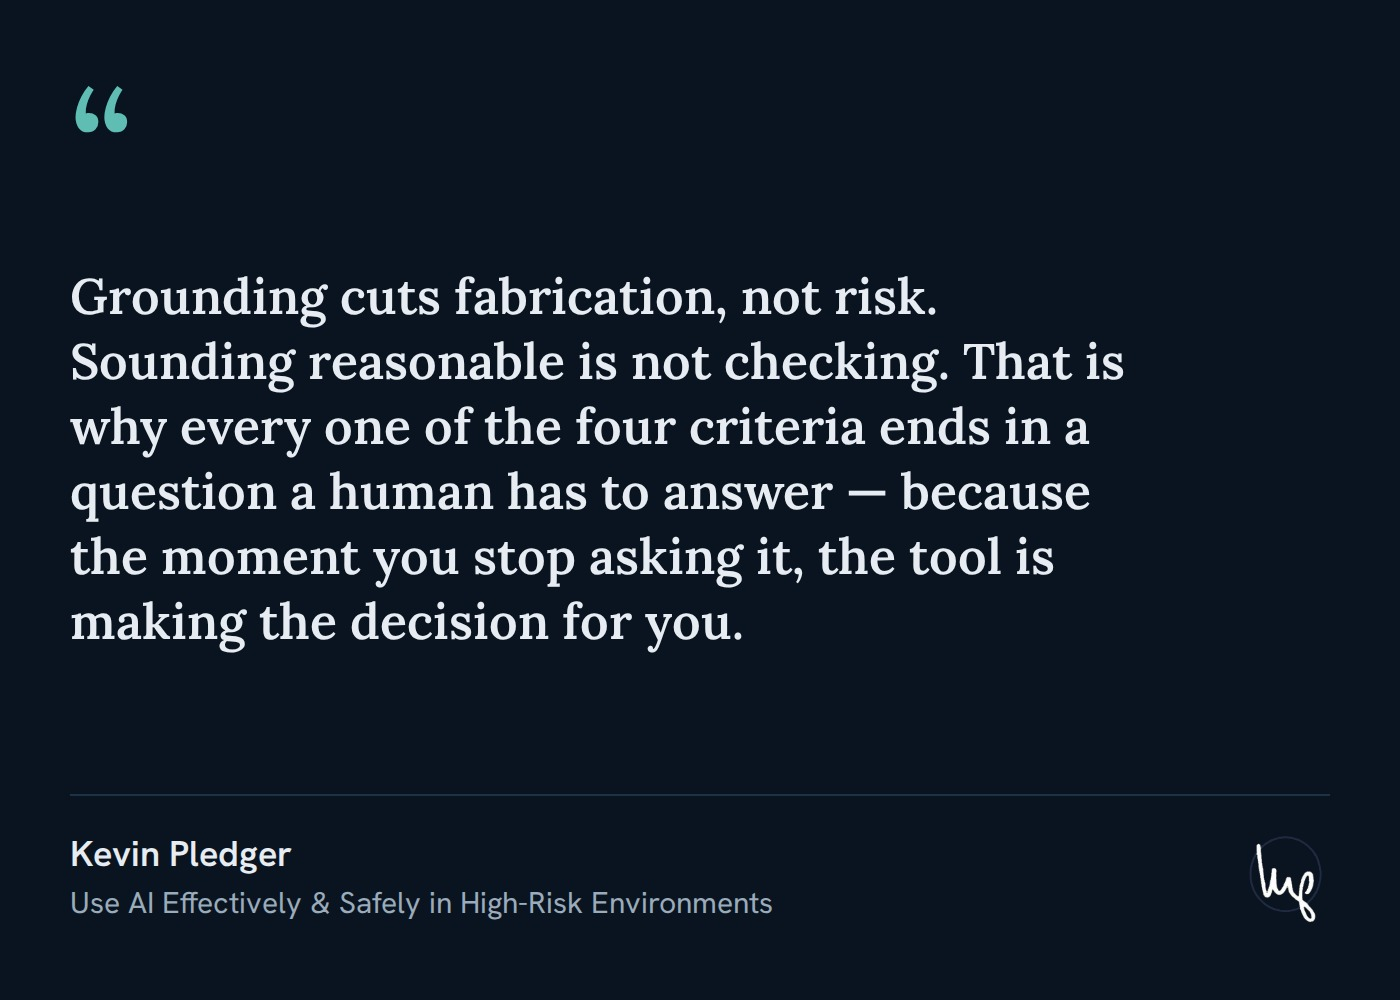
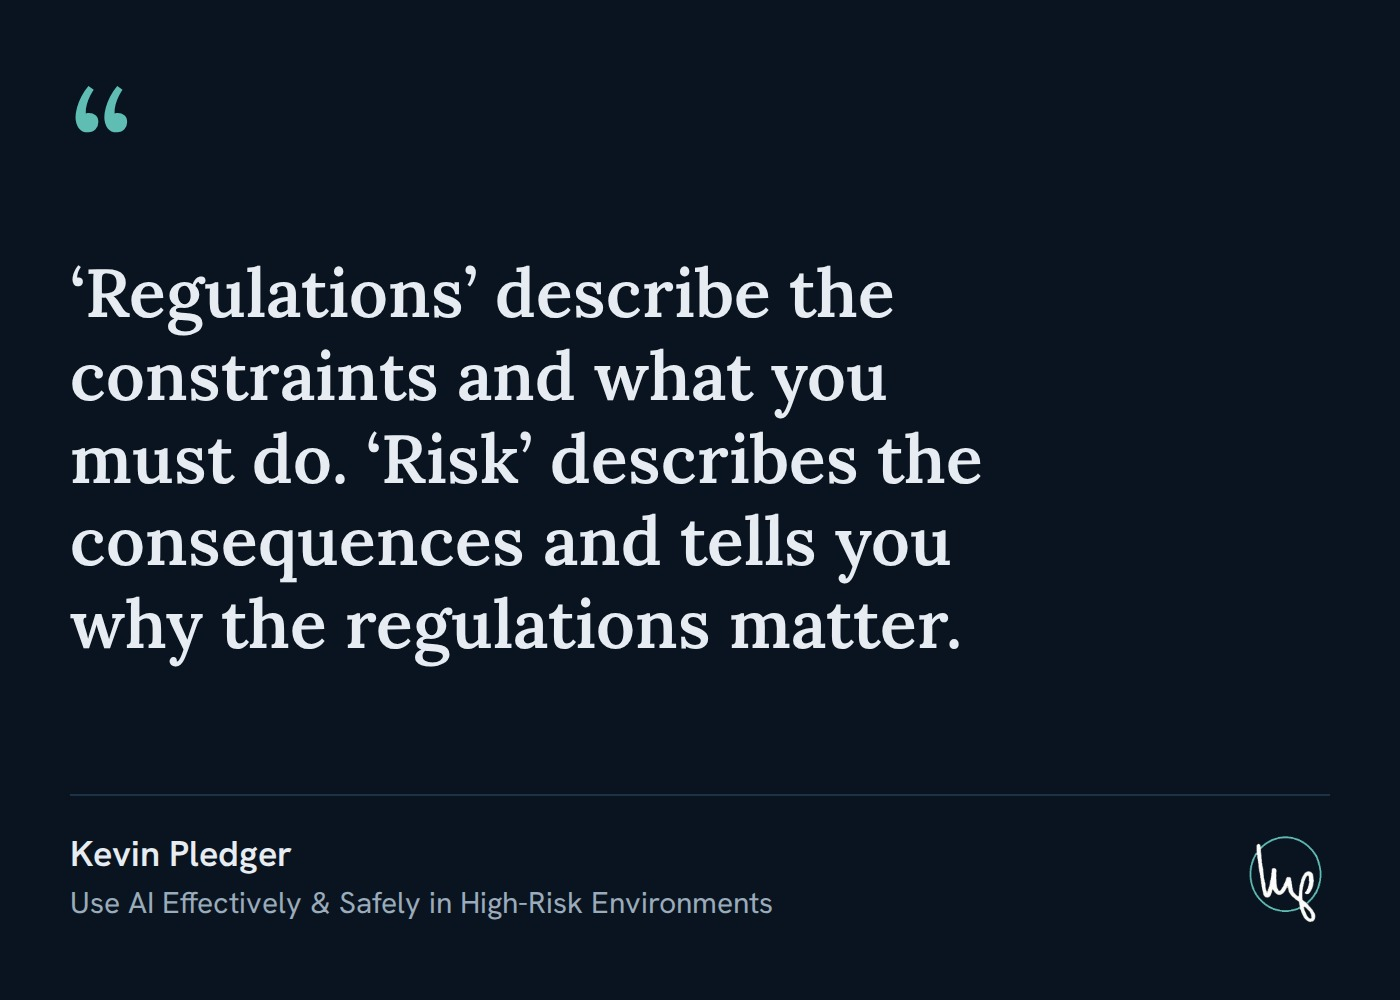
Use Kevin's real quote, and put the badge ring on the brand accent
The quote is now his, verbatim, from his first presentation — 20 words, so
the tier moves to t-xl. The internal single quotation marks around
'Regulations' and 'Risk' are kept: they nest one level inside the card's own
quotation, which is what the large opening mark is.

Ring moves from navy to --accent #5fbdb4, and the format doc now says why
rather than inheriting the infographic default.

Navy is the §5.8 default for a dark canvas and it does not survive this one.
Measured at 1.30:1 against #0a1420 and rendering as a ~1.6px stroke at badge
size, it is not a quiet ring, it is an absent one. The default is still
correct on a light canvas.

Every other shipped ring is worse: deep blue is invisible too at 1.24:1, and
the four that are visible run 1.3x-2.6x over the 0.091 chroma ceiling, three
of them borrowing a status hue — red sits exactly on danger at h27. The
accent is the only ring both legible here and inside the system, at 8.31:1
and 0.091 chroma. It is also the most legible of the set.

New asset, logos/kwp_logo_short_inverted_teal.png, is a ring-only recolor of
the navy file. Verified pixel by pixel: same 248x299, alpha channel
byte-identical, zero white glyph pixels changed, 3075 ring pixels remapped.
The no-redraw and no-tint-the-glyph rules are intact in the literal sense.

PROVENANCE.md gains a Derived variants section recording that, and the open
question it raises: using the accent for the ring implicitly proposes
[…]

Changed region(s): [[0.0307, 0.248, 0.7986, 0.682]]

diff --git a/examples/self-quote/index.html b/examples/self-quote/index.html
@@ -82,7 +82,9 @@
 
   /* The badge is sized by HEIGHT ONLY and its width is left to the file.
      logos/PROVENANCE.md: the marks are being reworked, so nothing may depend
-     on their exact geometry. Dark canvas -> the inverted mark. §5.8. */
+     on their exact geometry. Dark canvas -> the inverted mark.
+     Ring is the brand accent, the only visible option that stays under the
+     0.091 chroma ceiling and borrows no status hue. See the format doc §4.2. */
   .badge{height:var(--q-badge); width:auto; display:block; flex:none;}
 </style>
 
@@ -91,11 +93,10 @@
   <div class="mark" aria-hidden="true">&ldquo;</div>
 
   <!-- REPLACE ME. Keep the tier class in step with the word count.
-       This placeholder is 43 words -> t-m. -->
-  <blockquote class="quote t-m">
-    Grounding cuts fabrication, not risk. Sounding reasonable is not checking. That is why
-    every one of the four criteria ends in a question a human has to answer — because the
-    moment you stop asking it, the tool is making the decision for you.
+       This quote is 20 words -> t-xl. -->
+  <blockquote class="quote t-xl">
+    ‘Regulations’ describe the constraints and what you must do.
+    ‘Risk’ describes the consequences and tells you why the regulations matter.
   </blockquote>
 
   <footer class="attribution">
@@ -104,7 +105,7 @@
       <!-- REPLACE ME if the talk is not this one. -->
       <div class="context">Use AI Effectively &amp; Safely in High-Risk Environments</div>
     </div>
-    <img class="badge" src="../../logos/kwp_logo_short_inverted_navy.png"
+    <img class="badge" src="../../logos/kwp_logo_short_inverted_teal.png"
          alt="kwp signature monogram">
   </footer>
 

diff --git a/docs/quote-post-design-system.md b/docs/quote-post-design-system.md
@@ -131,9 +131,12 @@ to make edges 3:1, and this is an edge.
 **No categorical slots and no status colors on this canvas.** There is nothing here to
 categorize and no outcome to report. A quote is not a category.
 
-**`--accent` appears exactly once**, on the opening mark. That is the only color on an otherwise
-monochrome card, and it is the whole reason the card reads as brand rather than as a default
-dark theme. Do not tint the quote text, and do not add a second accent element.
+**`--accent` is the only chromatic color on the card, and it appears in exactly two places:**
+the opening mark and the badge ring (§4). Everything else is the neutral family. That pairing is
+what makes the card read as brand rather than as a default dark theme — one accent, stated twice,
+top-left and bottom-right, which also weights the diagonal the eye already travels.
+
+Do not tint the quote text, and do not introduce a third accent element.
 
 ### 3.1 The 2px rule
 
@@ -149,7 +152,7 @@ Kevin's short signature mark, small, bottom right.
 
 | | |
 | :-- | :-- |
-| File (dark canvas) | `logos/kwp_logo_short_inverted_navy.png` |
+| File (dark canvas) | `logos/kwp_logo_short_inverted_teal.png` |
 | Size | **104px tall, width left to the file** |
 | Position | Flush to the right and bottom margins, vertically centred in the attribution band |
 
@@ -168,29 +171,43 @@ worse than none. And the glyph itself is not recolorable — **the signature is 
 white with a black border in the inverted register; only the ring color varies.**
 `logos/PROVENANCE.md` is the authority.
 
-### 4.2 Why the navy ring, and the tension it carries
+### 4.2 Why the ring is the brand accent
 
-Navy is the §5.8 default for a dark canvas and the only ring under the system's 0.091 chroma
-ceiling, at 0.050. Every other ring runs 1.3× to 3.3× over it.
+The ring is **`--accent` `#5fbdb4`** — the same teal as the opening mark.
 
-Measured, the ring `#202a44` sits at **1.30:1 against the canvas** — the same register as
-`--border` at 1.41:1. So it reads as a quiet enclosure, not as a color. The white initials
-inside carry the mark at 18.52:1 and are what anyone actually sees.
+The infographic format's §5.8 defaults a dark canvas to the navy ring, and that default does not
+survive contact with this canvas. Measured, navy `#202a44` sits at **1.30:1** against `#0a1420` —
+the same register as `--border` at 1.41:1 — and the ring renders as a **~1.6px stroke** at badge
+size. A 1.6px stroke at 1.30:1 is not a quiet ring; it is an absent one. On a light canvas navy
+works, which is why the default exists.
 
-**That is the trade and it should be made knowingly.** A ring that reads as a *color* on this
-canvas costs either the chroma ceiling or the ring's own meaning:
+Every other shipped ring is worse, and the table is the argument:
 
-| Ring | Hex | vs canvas | Chroma vs 0.091 ceiling |
-| :-- | :-- | :-- | :-- |
-| navy | `#202a44` | 1.30:1 | 0.050 — **under** |
-| green (dark) | `#046a38` | 2.76:1 | 0.116 — 1.3× over |
-| red | `#ed1d24` | 4.24:1 | 0.234 — 2.6× over |
-| orange | `#ff8200` | 7.45:1 | 0.185 — 2.0× over |
-| green (bright) | `#39be15` | 7.54:1 | 0.223 — 2.4× over |
+| Ring | Hex | vs canvas | Chroma vs 0.091 ceiling | Hue collision |
+| :-- | :-- | :-- | :-- | :-- |
+| navy | `#202a44` | 1.30:1 | 0.050 — under | — |
+| blue (deep) | `#06038d` | 1.24:1 | 0.198 — 2.2× over | — |
+| green (dark) | `#046a38` | 2.76:1 | 0.116 — 1.3× over | success, h154 |
+| red | `#ed1d24` | 4.24:1 | 0.234 — 2.6× over | **danger, h27 exactly** |
+| orange | `#ff8200` | 7.45:1 | 0.185 — 2.0× over | warm caution register |
+| green (bright) | `#39be15` | 7.54:1 | 0.223 — 2.4× over | success, h141 |
+| **accent teal** | **`#5fbdb4`** | **8.31:1** | **0.091 — at the ceiling** | — |
 
-Independently of chroma, **which ring color means what is undecided**, so a colored ring would
-be asserting a channel identity the system has not assigned yet. Changing this is a conversation
-about SPEC §10, not a per-card choice.
+Every visible ring in the shipped set breaks the chroma ceiling by 1.3× to 2.6×, and three of
+them borrow a status hue — red sits *on* danger. **The accent is the only ring that is both
+legible on this canvas and inside the system.** It is also the most legible of all of them.
+
+And it does not smuggle in an unassigned meaning. `logos/PROVENANCE.md` says the ring is intended
+to carry channel or section identity and that **which color means what is undecided** — so a
+green or orange ring would assert a channel this card does not belong to. Teal is the *parent*
+identity: the portal accent both channels sit inside. On Kevin's own quote card that is the
+correct thing for the ring to say.
+
+**This does read as proposing teal = parent.** That is a SPEC §10 conversation and it is Kevin's
+to ratify or reject; it is recorded here rather than left implicit in a file choice.
+
+The asset is a **ring-only recolor** of `kwp_logo_short_inverted_navy.png` — glyph pixels and the
+alpha channel are byte-identical, verified pixel by pixel. See `logos/PROVENANCE.md`.
 
 ### 4.3 The badge is not the attribution
 
@@ -216,8 +233,13 @@ mark beside `Kevin Pledger` says two different things.
 better sentence in your own mouth is not. If the line needs a rewrite to work on a card, it is a
 written line and the card should not claim it was spoken.
 
-**No quotation marks in the text.** The opening mark stands in for them. Adding both sets them
+**No *enclosing* quotation marks.** The opening mark stands in for them; adding both sets them
 twice.
+
+**Quotation marks *inside* the quote stay, and stay single.** A speaker naming a term — ‘Risk’,
+‘Regulations’ — is doing real work and the marks carry it. They sit one level in from the card's
+own quotation, which is what the large opening mark is, so single is correct; double would put
+two visible sets of double marks on one canvas and read as a mistake.
 
 **The card must work with the caption removed.** It gets screenshotted and reposted.
 
@@ -236,7 +258,8 @@ Measured in a render, not estimated:
 6. Inverted mark on the dark canvas. Never `kwp_logo_short_blue.png` (no alpha — it carries a
    baked white rectangle).
 7. `kwp` is lowercase everywhere it appears, including alt text.
-8. No italics. No quotation marks around the quote. No second accent element.
+8. No italics. No enclosing quotation marks — marks around quoted *terms* are fine, and single.
+   No third accent element beyond the opening mark and the ring.
 9. Grayscale test: nothing is lost, because nothing on this canvas is carried by color.
 10. Squint at 400px wide: the quote's first line and the name both survive.
 

diff --git a/examples/self-quote/README.md b/examples/self-quote/README.md
@@ -8,8 +8,8 @@ two `REPLACE ME` blocks, set the tier class, re-render.
 | :-- | :-- |
 | Canvas | **1400×1000**, 7:5 (§0.1) |
 | Register | **Dark** (§3) |
-| Tier | `t-m` — 43 words (§2.2) |
-| Badge | `kwp_logo_short_inverted_navy.png`, 104px tall, bottom right (§4) |
+| Tier | `t-xl` — 20 words (§2.2) |
+| Badge | `kwp_logo_short_inverted_teal.png`, 104px tall, bottom right (§4) |
 | Exports | `self-quote.jpg` 1400×1000 q92 |
 
 ## Using it
@@ -52,16 +52,19 @@ preflight item 5 checks `naturalWidth > 0` rather than trusting the eye.
 Measured in the render, not estimated:
 
 - Canvas 1400×1000, `scrollHeight − height = 0`. Nothing overflows.
-- Quote at `t-m`/43 words: 6 lines, 389px of text in the 598px zone, 104px clear above the mark
-  and 141px clear below to the rule.
+- Quote at `t-xl`/20 words: 5 lines, 419px of text in the 598px zone, 89px clear above the mark
+  and 127px clear below to the rule.
 - All four tiers checked at their upper word bound — 20/35/55/70 — none clash. The tightest is
   `t-m` at 55 words: 7 lines, 446px, 76px clear above and 113px below. 81 words at `t-s` still
   clears with 76px and 114px, which is where the "editorial, not geometric" claim in §2.2
   comes from.
 - Both faces report `loaded`. Badge `naturalWidth` 248, placed at 104px tall / 86.3px wide,
   flush to the 70px right and bottom margins.
+- Badge ring is `--accent`, measured 8.31:1 against the canvas and 0.091 chroma — legible, and
+  at the ceiling rather than over it (§4.2).
 - Nothing read as a sentence below 30px (§2.1). The two attribution lines are 36px and 30px.
-- No categorical or status colors anywhere. `--accent` used once, on the opening mark.
+- No categorical or status colors anywhere. `--accent` used in exactly two places — the
+  opening mark and the badge ring — and nowhere else.
 - No element computes to a non-normal `font-style` — nothing is italic, synthesized or otherwise.
 - Grayscale: nothing lost — no distinction on this canvas is carried by color.
 
@@ -84,17 +87,35 @@ not a bleed," and this card bleeds. A quote card is one object already; framing 
 has no internal modules just insets it for no reason. The 2px rule above the attribution is the
 only division on the canvas.
 
-## Content sourcing — read before posting
+## The ring is not the format's default, and that is deliberate
 
-**The placeholder quote is not a verified quotation and must be replaced.**
+The infographic format's §5.8 sends a dark canvas to the **navy** ring. This card does not, and
+the reason is measured rather than aesthetic: navy is 1.30:1 against `#0a1420` and renders as a
+~1.6px stroke at badge size, so it is not a subtle ring, it is an absent one. On a light canvas
+the same default is correct.
 
-Its first two sentences — *"Grounding cuts fabrication, not risk"* and *"Sounding reasonable is
-not checking"* — are Kevin's, recorded in
-[`examples/four-principles/README.md`](../four-principles/README.md) as correctives from the
-source précis. Everything after the em dash is filler, written here to size the `t-m` tier. It
-reads like something he might have said, which is precisely the problem: **§5 says quote what
-was actually said**, and this card does not yet.
+Every other shipped ring is either invisible too (deep blue, 1.24:1) or 1.3×–2.6× over the 0.091
+chroma ceiling, and three of those borrow a status hue — red sits exactly on danger at h27. The
+brand accent is the only ring that is legible here *and* inside the system, at 8.31:1 and 0.091.
 
-The context line assumes the talk was *Use AI Effectively & Safely in High-Risk Environments*,
-the Learning Guild session dated 27 August 2026 in the four-principles README. That is an
-inference from a date in this repo, not a fact anyone confirmed. Check it.
+`logos/kwp_logo_short_inverted_teal.png` is a **ring-only recolor** of the navy file: same
+dimensions, alpha channel byte-identical, zero glyph pixels changed, 3,075 ring pixels remapped.
+Full note and the open question it raises — whether teal may stand for the parent identity — are
+in [`logos/PROVENANCE.md`](../../logos/PROVENANCE.md) under *Derived variants*.
+
+## Content sourcing
+
+The quote is Kevin's, from his first presentation — *Use AI Effectively & Safely in High-Risk
+Environments*, The Learning Guild, 27 August 2026. Supplied by him directly, verbatim:
+
+> ‘Regulations’ describe the constraints and what you must do. ‘Risk’ describes the consequences
+> and tells you why the regulations matter.
+
+**The single quotation marks around the two terms are his and are kept.** They read as nested
+inside the card's own quotation, which is exactly what they are — the large opening mark is the
+outer level. Promoting them to double quotes would put two visible sets of double marks on one
+card and look like an error.
+
+The talk name in the context line is inferred from the date in
+[`examples/four-principles/README.md`](../four-principles/README.md), not separately confirmed.
+It is the one thing on this canvas nobody has verified.

diff --git a/logos/PROVENANCE.md b/logos/PROVENANCE.md
@@ -111,3 +111,40 @@ For comparison, the brand's own teals sit at 0.070–0.091, and the two channel 
 **This is not automatically a violation.** SPEC §10 permits deviation justified by function, and a logo is identity rather than data. But it is a real tension and it should be decided rather than inherited: on a surface governed by the ceiling, a `#ff8200` ring is the loudest thing on the page by a factor of two, and it will out-shout the content it sits beside.
 
 Only `navy` is currently usable without that conversation.
+
+---
+
+## Derived variants
+
+Files produced from the originals above by **recoloring the ring only**. The rule at the top of
+this file is what permits them: the ring is the one part of the mark whose color varies. None of
+them touches the glyph — if a future variant does, it does not belong in this section or this
+directory.
+
+| File | Derived from | Ring | Why it exists |
+| :-- | :-- | :-- | :-- |
+| `kwp_logo_short_inverted_teal.png` | `kwp_logo_short_inverted_navy.png` | `#5fbdb4` — `--accent` | The navy ring measures 1.30:1 on the `#0a1420` dark canvas and disappears at badge size. See `docs/quote-post-design-system.md` §4.2. |
+
+**`kwp_logo_short_inverted_teal.png`, verified pixel by pixel against its source:** same 248×299
+dimensions, **alpha channel byte-identical** (0 pixels differ), **0 white glyph pixels changed**,
+3,075 ring pixels recolored. The glyph is untouched in the literal sense, not the approximate one.
+
+It was made by drawing the source into a canvas and remapping only pixels closer to the ring navy
+than to white, preserving alpha. That is reproducible, but **do not treat it as a pipeline** —
+there is no recolor tool in this repo and there should not be one. `tools/` holds the verifier and
+the math it needs, and stays that size.
+
+### The open question these variants raise
+
+The ring is meant to carry **channel or section identity**, and which color means what is still
+undecided. Using `--accent` for the ring implicitly proposes **teal = the parent identity** — the
+portal accent both channels sit inside, as distinct from a channel's own color.
+
+That is a reasonable reading and it is the one the quote-post format is built on, but **it is a
+proposal, not a settled assignment.** It is Kevin's to ratify or throw out. Recorded here so the
+decision is visible rather than buried in one template's `src` attribute.
+
+Teal is also the only ring color in this directory that sits **at or under the system's 0.091
+chroma ceiling while still being legible on a dark canvas** — it measures exactly 0.091, the
+chroma of `--teal-300`. Navy is under the ceiling but invisible there; everything else is visible
+but 1.3× to 2.6× over it.
